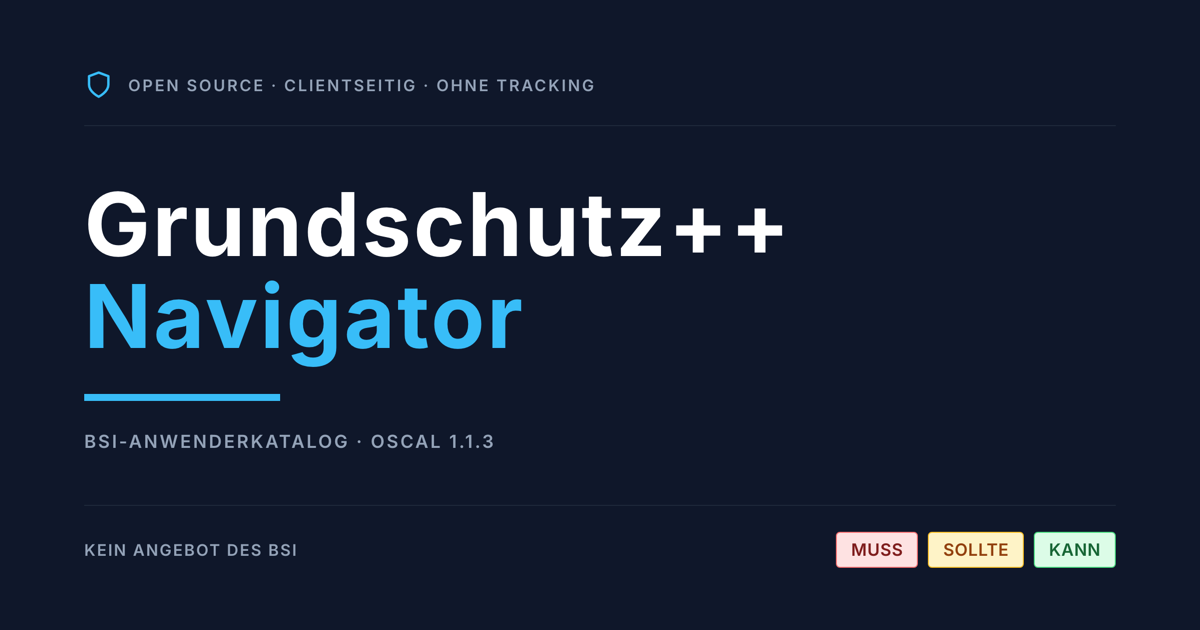
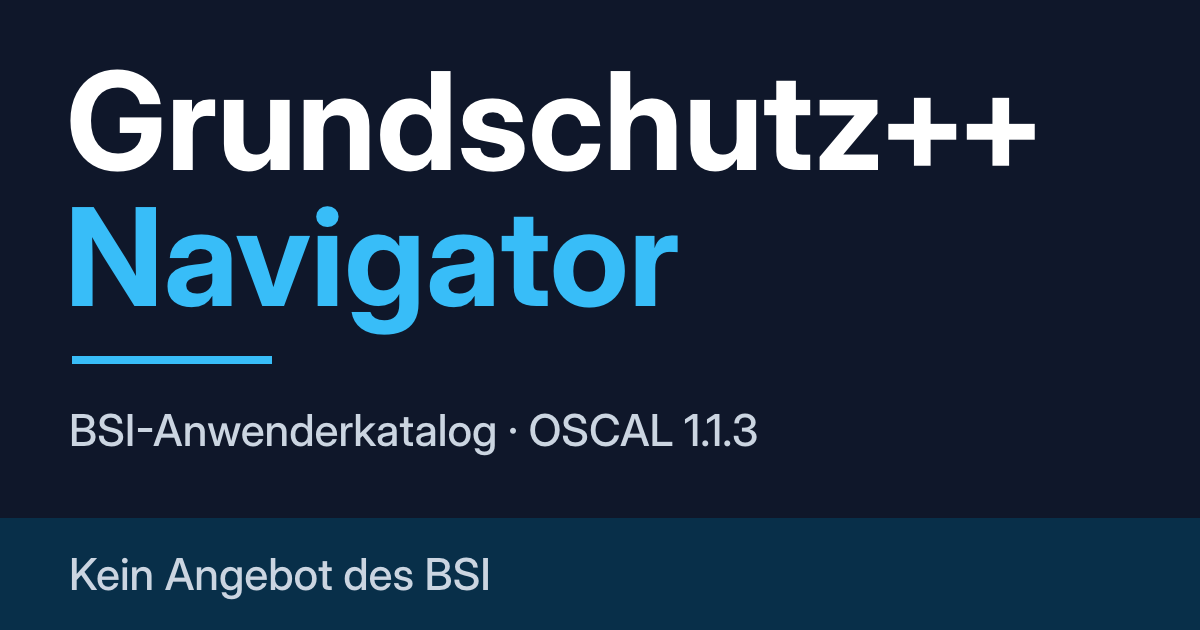
fix(seo): Setze das OG-Bild für die reale Vorschaugröße lesbar neu (#349)
GSPP-413

In der Vorschaukarte von iMessage war außer dem Titel nichts lesbar, weil vier von sechs Textebenen bei rund 360 px Darstellungsbreite auf 3 bis 7,5 px Versalhöhe schrumpften. Das neue Bild trägt nur noch Titel, Untertitel und die BSI-Abgrenzung, jede Ebene mit mindestens 30 px Versalhöhe bei 1200 px Bildbreite. Kicker-Zeile und Badges entfallen nach Owner-Entscheidung; Dateiname und Maße bleiben, deshalb ändern sich die übrigen Bild-Tags nicht.

Der Alternativtext beschreibt jetzt den neuen Bildinhalt statt der entfallenen Kicker-Zeile. Die Architekturbeschreibung nannte für ihn noch einen Doppelpunkt nach dem Produktnamen und ist angepasst.

Agent: Claude Code

diff --git a/index.html b/index.html
@@ -25,7 +25,7 @@
     <meta property="og:image" content="https://dfurater.github.io/Grundschutz-Navigator/og-image.png" />
     <meta property="og:image:width" content="1200" />
     <meta property="og:image:height" content="630" />
-    <meta property="og:image:alt" content="Grundschutz++ Navigator: Open Source, clientseitig, ohne Tracking. BSI-Anwenderkatalog, OSCAL 1.1.3." />
+    <meta property="og:image:alt" content="Grundschutz++ Navigator. BSI-Anwenderkatalog, OSCAL 1.1.3. Kein Angebot des BSI." />
     <meta name="twitter:card" content="summary_large_image" />
     <meta name="twitter:image" content="https://dfurater.github.io/Grundschutz-Navigator/og-image.png" />
     <meta

diff --git a/docs/ARCHITECTURE.md b/docs/ARCHITECTURE.md
@@ -506,7 +506,7 @@ Die Anwendung verwendet React Router mit `BrowserRouter` und pfadbasierten URLs.
 
 Das Vite-Plugin `github-pages-spa-fallback` (`vite.config.ts`) erzeugt beim Build statische HTTP-200-Einstiege unter `dist/<route>/index.html`. Die festen Inhaltsrouten (`/suche`, `/vokabular`, `/about`, `/datenschutz`, `/impressum`, `/lizenzen`) stammen aus der gemeinsamen Titeltabelle `STATIC_CONTENT_TITLES` in `scripts/seoRouteEntries.ts`; Katalogeinstiege und deren adressierbare Praktiken, Themen und Kontrollen stammen ausschließlich aus den von `listSupportedCatalogs()` ausgelieferten öffentlichen Katalogen. Der Helfer prüft die Katalogbytes gegen ihre Integritätsmetadaten, verarbeitet sie mit dem bestehenden `parseCatalog()` und verwendet dieselben URL-Builder wie die App. Die bestehende Node-Brücke löst beim Laden dieser TypeScript-Module den Projektalias auf, bevor Vite selbst seine Konfiguration geladen hat.
 
-Jeder HTML-Einstieg erhält genau einen inhaltsbezogenen `og:title` und eine kanonische `og:url`. Die Titel lauten: Produktname für die Startseite, fester Seitentitel für Inhaltsseiten, Katalogname für einen Katalog, `Gruppenname | Katalogname` für Praktik oder Thema und `Kontroll-ID: Kontrolltitel | Katalogname` für eine Kontrolle. Die Titeltrenner `: ` zwischen Kennung und Titel sowie ` | ` vor dem übergeordneten Namen werden zentral als `TITLE_ID_SEPARATOR` und `TITLE_PARENT_SEPARATOR` in `src/app/pageTitles.ts` gepflegt. Browser-Titel ergänzen ` | Grundschutz++ Navigator`; Vokabularseiten verwenden `<Vokabularname> | Vokabulare | Grundschutz++ Navigator`. Die Meta-Beschreibung und der Alternativtext des OG-Bildes verwenden einen Doppelpunkt nach dem Produktnamen. Die URL verwendet den Production-Origin und die normalisierte Deployment-Basis aus `BUILD_BASE`. HTML-Attributwerte werden maskiert. Beim Erzeugen der Routen-HTML ersetzt `writeSeoRouteEntries` nur `og:title` und `og:url`; `PageTitle` entfernt den statischen Titel-Fallback im Layout-Effekt.
+Jeder HTML-Einstieg erhält genau einen inhaltsbezogenen `og:title` und eine kanonische `og:url`. Die Titel lauten: Produktname für die Startseite, fester Seitentitel für Inhaltsseiten, Katalogname für einen Katalog, `Gruppenname | Katalogname` für Praktik oder Thema und `Kontroll-ID: Kontrolltitel | Katalogname` für eine Kontrolle. Die Titeltrenner `: ` zwischen Kennung und Titel sowie ` | ` vor dem übergeordneten Namen werden zentral als `TITLE_ID_SEPARATOR` und `TITLE_PARENT_SEPARATOR` in `src/app/pageTitles.ts` gepflegt. Browser-Titel ergänzen ` | Grundschutz++ Navigator`; Vokabularseiten verwenden `<Vokabularname> | Vokabulare | Grundschutz++ Navigator`. Die Meta-Beschreibung verwendet einen Doppelpunkt nach dem Produktnamen; der Alternativtext des OG-Bildes gibt die Textzeilen des Bildes als Sätze wieder. Die URL verwendet den Production-Origin und die normalisierte Deployment-Basis aus `BUILD_BASE`. HTML-Attributwerte werden maskiert. Beim Erzeugen der Routen-HTML ersetzt `writeSeoRouteEntries` nur `og:title` und `og:url`; `PageTitle` entfernt den statischen Titel-Fallback im Layout-Effekt.
 
 Query und Fragment erzeugen keine zusätzlichen Dateien und erscheinen nicht in Metadaten; ein Such- oder Filterlink erhält den Kopf seiner Route. Gruppen ohne ID erzeugen keinen Einstieg. Fehlende oder nicht auflösbare unterstützte Daten, Hashabweichungen, Pfad-Ausbruch, Symlinks und kollidierende Ausgabepfade führen vor dem Schreiben der Routendateien zum Fehler. Für unbekannte Ziele dient `dist/404.html` als Fallback mit neutralem Produkttitel und kanonischer Startseiten-URL. Der Fallback bleibt bytegleich zum gebauten Startseiten-HTML.
 
